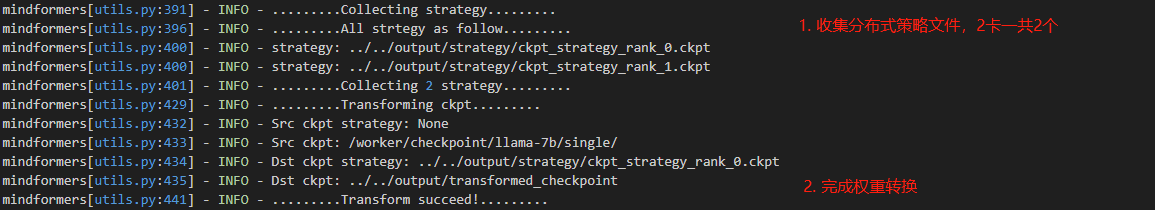
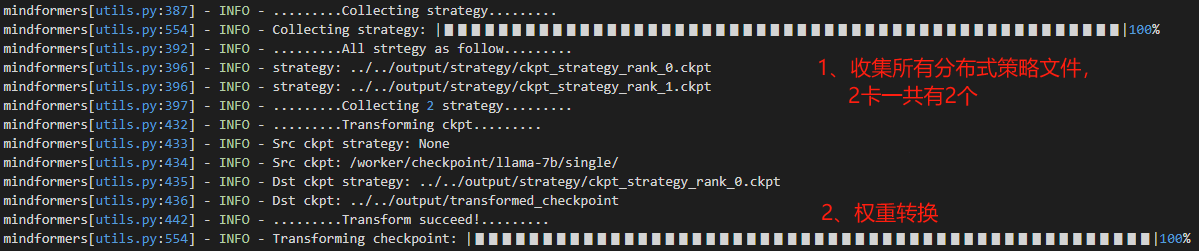
auto_trans整改

Changed region(s): [[0.0, 0.0, 0.9974, 1.0], [0.6857, 0.2286, 0.9039, 0.3143], [0.6857, 0.3429, 0.8104, 0.4286]]

diff --git a/mindformers/trainer/utils.py b/mindformers/trainer/utils.py
@@ -35,8 +35,6 @@ from mindformers.tools.transform_ckpt import get_strategy
 if check_in_modelarts():
     import moxing as mox
 
-ELAPSE_TIME = 7200
-
 class BaseEnum(str, Enum):
     """
     Base Enum for MindFormers.
@@ -309,9 +307,10 @@ def transform_and_load_checkpoint(config, model, network, dataset, optimizer=Non
 
     if config.auto_trans_ckpt:
         # 2. get strategy
+        src_ckpt_strategy = get_strategy(config.src_strategy_path_or_dir)
         dst_ckpt_strategy = get_dst_strategy(config)
         # 3. transform checkpoint if needed
-        transform_ckpt(config, dst_ckpt_strategy=dst_ckpt_strategy)
+        transform_ckpt(config, src_ckpt_strategy=src_ckpt_strategy, dst_ckpt_strategy=dst_ckpt_strategy)
 
     # 4. load ckpt
     load_ckpt(config, network, optimizer=optimizer)
@@ -416,36 +415,64 @@ def get_dst_strategy(config):
     return dst_strategy_path
 
 
-def transform_ckpt(config, dst_ckpt_strategy=None):
+def transform_ckpt(config, src_ckpt_strategy=None, dst_ckpt_strategy=None):
     """auto transform ckpt"""
+    if not config.load_checkpoint or not os.path.exists(config.load_checkpoint):
+        raise ValueError("The load_checkpoint should be exist, "
+                         f"but get {config.load_checkpoint}.")
+    if not os.path.isdir(config.load_checkpoint) or \
+        not glob(os.path.join(config.load_checkpoint, "rank*")):
+        raise ValueError("The load_checkpoint must be a dir and "
+                         "ckpt should be stored in the format of load_checkpoint/rank_x/xxx.ckpt,"
+                         f"but get {config.load_checkpoint}.")
+
     rank_id = get_rank() if config.use_parallel else 0
     world_size = get_group_size() if config.use_parallel else 1
     transformed_ckpt_dir = os.path.join(get_output_root_path(), "transformed_checkpoint")
     os.makedirs(transformed_ckpt_dir, exist_ok=True)
     if rank_id % 8 == 0:
         logger.info(".........Transforming ckpt.........")
-        src_ckpt_strategy = get_strategy(config.src_strategy_path_or_dir)
-
         logger.info("Src ckpt strategy: %s", src_ckpt_strategy)
         logger.info("Src ckpt: %s", config.load_checkpoint)
         logger.info("Dst ckpt strategy: %s", dst_ckpt_strategy)
         logger.info("Dst ckpt: %s", transformed_ckpt_dir)
-        ms.transform_checkpoints(config.load_checkpoint,
-                                 transformed_ckpt_dir,
-                                 'checkpoint_',
-                                 src_ckpt_strategy,
-                                 dst_ckpt_strategy)
-        logger.info(".........Transform succeed!.........")
-        transform_succeed_txt = os.path.join(transformed_ckpt_dir, f'transform_succeed_rank_{rank_id}.txt')
-        f = open(transform_succeed_txt, 'w')
-        f.close()
+        try:
+            ms.transform_checkpoints(config.load_checkpoint,
+                                     transformed_ckpt_dir,
+                                     'checkpoint_',
+                                     src_ckpt_strategy,
+                                     dst_ckpt_strategy)
+            logger.info(".........Transform succeed!.........")
+            transform_succeed_txt = os.path.join(transformed_ckpt_dir,
+                                                 f'transform_succeed_rank_{rank_id}.txt')
+            f = open(transform_succeed_txt, 'w')
+            f.close()
+        except RuntimeError:
+            logger.error(".........Transform failed!.........")
+            transform_failed_txt = os.path.join(transformed_ckpt_dir,
+                                                f'transform_failed_rank_{rank_id}.txt')
+            f = open(transform_failed_txt, 'w')
+            f.close()
+
         if check_in_modelarts():
             transformed_ckpt_dir_obs = os.path.join(config.remote_save_url, "transformed_checkpoint")
             mox.file.make_dirs(transformed_ckpt_dir_obs)
-            transform_succeed_txt_obs = os.path.join(transformed_ckpt_dir_obs, f'transform_succeed_rank_{rank_id}.txt')
-            mox.file.copy(transform_succeed_txt, transform_succeed_txt_obs)
 
-    wait_transform(config, rank_id, world_size)
+            transform_succeed_txt = os.path.join(transformed_ckpt_dir,
+                                                 f'transform_succeed_rank_{rank_id}.txt')
+            if os.path.exists(transform_succeed_txt):
+                transform_succeed_txt_obs = os.path.join(transformed_ckpt_dir_obs,
+                                                         f'transform_succeed_rank_{rank_id}.txt')
+                mox.file.copy(transform_succeed_txt, transform_succeed_txt_obs)
+
+            transform_failed_txt = os.path.join(transformed_ckpt_dir,
+                                                f'transform_failed_rank_{rank_id}.txt')
+            if os.path.exists(transform_failed_txt):
+                transform_failed_txt_obs = os.path.join(transformed_ckpt_dir_obs,
+                                                        f'transform_failed_rank_{rank_id}.txt')
+                mox.file.copy(transform_failed_txt, transform_failed_txt_obs)
+
+    wait_transform(config, world_size)
 
     if check_in_modelarts():
         transformed_ckpt_dir_obs = os.path.join(config.remote_save_url, "transformed_checkpoint")
@@ -457,57 +484,64 @@ def transform_ckpt(config, dst_ckpt_strategy=None):
     config.load_checkpoint = transformed_ckpt_dir
 
 
-def wait_transform(config, rank_id, world_size):
+def wait_transform(config, world_size):
     """wait all node transform over"""
-    print(f'Rank {rank_id}: Waiting transforming ckpt......')
-    time_out = False
+    last_count = -1
     if check_in_modelarts():
         transformed_ckpt_dir_obs = os.path.join(config.remote_save_url, "transformed_checkpoint")
-        transform_succeed_txts_obs = [os.path.join(transformed_ckpt_dir_obs, f'transform_succeed_rank_{int(i/8)*8}.txt')
-                                      for i in range(0, world_size, 8)]
-        total_num = len(transform_succeed_txts_obs)
-        all_node_transform_succeed = False
-        start_time = time.time()
-        while not all_node_transform_succeed:
-            node_transform_succeed_num = 0
-            for transform_succeed_txt in transform_succeed_txts_obs:
-                if mox.file.exists(transform_succeed_txt):
-                    node_transform_succeed_num += 1
-                else:
-                    break
-            if node_transform_succeed_num == total_num:
-                all_node_transform_succeed = True
-            else:
-                elapsed_time = time.time() - start_time
-                if elapsed_time >= ELAPSE_TIME:
-                    logger.warning("Automatic weight transform is timed out!")
-                    time_out = True
-                    break
+        while True:
+            transform_failed_txts_obs = mox.file.glob(os.path.join(transformed_ckpt_dir_obs,
+                                                                   f'transform_failed_rank_*.txt'))
+            if transform_failed_txts_obs:
+                raise ValueError(f"Transform failed, find {transform_failed_txts_obs}.")
+
+            transform_succeed_txts_obs = mox.file.glob(os.path.join(transformed_ckpt_dir_obs,
+                                                                    f'transform_succeed_rank_*.txt'))
+            current_count = len(transform_succeed_txts_obs)
+            total_num = len(list(range(0, world_size, 8)))
+            progress = (current_count / total_num) * 100
+            if current_count != last_count:
+                show_progress(progress, prefix="Transforming checkpoint")
+                last_count = current_count
+            if current_count < total_num:
                 time.sleep(5)
+            else:
+                break
     else:
         transformed_ckpt_dir = os.path.join(get_output_root_path(), "transformed_checkpoint")
-        transform_succeed_txt = os.path.join(transformed_ckpt_dir, f'transform_succeed_rank_0.txt')
-        start_time = time.time()
-        while not os.path.exists(transform_succeed_txt):
-            elapsed_time = time.time() - start_time
-            if elapsed_time >= ELAPSE_TIME:
-                time_out = True
+        while True:
+            transform_failed_txts = glob(os.path.join(transformed_ckpt_dir,
+                                                      f'transform_failed_rank_*.txt'))
+            if transform_failed_txts:
+                raise ValueError(f"Transform failed, find {transform_failed_txts}.")
+
+            transform_succeed_txts = glob(os.path.join(transformed_ckpt_dir,
+                                                       f'transform_succeed_rank_*.txt'))
+            current_count = len(transform_succeed_txts)
+            total_num = len(list(range(0, world_size, 8)))
+            progress = (current_count / total_num) * 100
+            if current_count != last_count:
+                show_progress(progress, prefix="Transforming checkpoint")
+                last_count = current_count
+            if current_count < total_num:
+                time.sleep(5)
+            else:
                 break
-            time.sleep(5)
-    print(f'Rank {rank_id}: Transform succeed!')
-    if time_out:
-        return False
-    return True
 
 
 def wait_collect_all_strategy(strategy_dir, total_num, obs_strategy_dir=None):
     """wait all strategy collect over"""
-    start_time = time.time()
-    time_out = False
+    last_count = -1
+    last_count_obs = -1
     while True:
         if obs_strategy_dir:
             obs_strategy_paths = mox.file.glob(os.path.join(obs_strategy_dir, "*.ckpt"))
-            if len(obs_strategy_paths) < total_num:
+            obs_current_count = len(obs_strategy_paths)
+            progress = (obs_current_count / total_num) * 100
+            if obs_current_count != last_count_obs:
+                show_progress(progress, prefix="Collecting strategy")
+                last_count_obs = obs_current_count
+            if obs_current_count < total_num:
                 time.sleep(5)
                 continue
             for obs_strategy_path in obs_strategy_paths:
@@ -515,18 +549,21 @@ def wait_collect_all_strategy(strategy_dir, total_num, obs_strategy_dir=None):
                 mox.file.copy(obs_strategy_path, local_strategy_path)
 
         local_strategy_paths = glob(os.path.join(strategy_dir, "*_rank_*.ckpt"))
-        if len(local_strategy_paths) == total_num:
-            break
-        else:
-            elapsed_time = time.time() - start_time
-            if elapsed_time >= ELAPSE_TIME:
-                logger.warning("Collection of all strategy timed out!")
-                time_out = True
-                break
+        local_current_count = len(local_strategy_paths)
+        progress = (local_current_count / total_num) * 100
+        if local_current_count != last_count:
+            show_progress(progress, prefix="Collecting strategy")
+            last_count = local_current_count
+        if local_current_count < total_num:
             time.sleep(5)
-    if time_out:
-        return False
-    return True
+        else:
+            break
+
+
+def show_progress(progress, prefix=''):
+    """show progress"""
+    show_str = ('|%%-%ds|' % 50) % (int(50 * progress / 100) * "▮")
+    logger.info("%s: %s%d%%", prefix, show_str, progress)
 
 
 def load_ckpt(config, network, optimizer=None):

diff --git a/docs/feature_cards/Transform_Ckpt.md b/docs/feature_cards/Transform_Ckpt.md
@@ -515,7 +515,7 @@ processor:
 
 ```shell
 cd script
-./run_distribute.sh rank_table_2.json configs/llama/run_llama_13b.yaml [0,2] predict "<human>:你是谁？\n<bot>:"
+./run_distribute.sh rank_table_2.json configs/llama/run_llama_13b.yaml [0,2] predict "I love beijing, because"
 ```
 
 ③ 查看权重转换相关日志
@@ -540,7 +540,7 @@ cd script
 
 ### ModelArts训练案例
 
-**案例描述**：基于一份完整的llama-13B预训练权重，在Modelarts上使用16卡进行分布式训练。
+**案例描述**：基于一份完整的llama-7B预训练权重，在Modelarts上使用16卡进行分布式训练。
 
 **步骤**：
 
@@ -562,24 +562,22 @@ micro_batch_interleave_num: 1
 
 ② 训练作业配置
 
-![llama13b_autotrans_1to16_train_modelarts_inputs](assets/Transform_Ckpt/llama13b_autotrans_1to16_train_modelarts_inputs.png)
-
-![llama13b_autotrans_1to16_train_modelarts_params](assets/Transform_Ckpt/llama13b_autotrans_1to16_train_modelarts_params.png)
+![llama13b_autotrans_1to16_train_modelarts_inputs](assets/Transform_Ckpt/llama7b_autotrans_1to16_train_modelarts_config.png)
 
 ③ 提交训练作业，查看训练日志
 
-![llama13b_autotrans_1to16_train_modelarts_log1](assets/Transform_Ckpt/llama13b_autotrans_1to16_train_modelarts_log1.png)
+![llama13b_autotrans_1to16_train_modelarts_log1](assets/Transform_Ckpt/llama7b_autotrans_1to16_train_modelarts_log1.png)
 
-![llama13b_autotrans_1to16_train_modelarts_log2](assets/Transform_Ckpt/llama13b_autotrans_1to16_train_modelarts_log2.png)
+![llama13b_autotrans_1to16_train_modelarts_log2](assets/Transform_Ckpt/llama7b_autotrans_1to16_train_modelarts_log2.png)
 
 ④ 查看转换生成的文件
 
 **分布式策略文件**：保存在`remote_save_url/strategy`文件夹下，由于开启了**流水线并行**，会对所有`ckpt_strategy_rank_x.ckpt`进行合并，得到`merged_ckpt_strategy.ckpt`。若不开启流水线并行，则不会合并。
 
-![llama13b_autotrans_1to16_train_modelarts_strategy](assets/Transform_Ckpt/llama13b_autotrans_1to16_train_modelarts_strategy.png)
+![llama13b_autotrans_1to16_train_modelarts_strategy](assets/Transform_Ckpt/llama7b_autotrans_1to16_train_modelarts_strategy.png)
 
 **分布式权重**：保存在`output/transformed_checkpoint`文件夹下
 
-![llama13b_autotrans_1to16_train_modelarts_distribute_ckpt](assets/Transform_Ckpt/llama13b_autotrans_1to16_train_modelarts_distribute_ckpt.png)
+![llama13b_autotrans_1to16_train_modelarts_distribute_ckpt](assets/Transform_Ckpt/llama7b_autotrans_1to16_train_modelarts_transformed_checkpoint.png)
 
 注：**strategy**和**transformed_checkpoint**两个文件夹请及时保存到**自定义文件夹**中，以免被后续转换任务清空。
